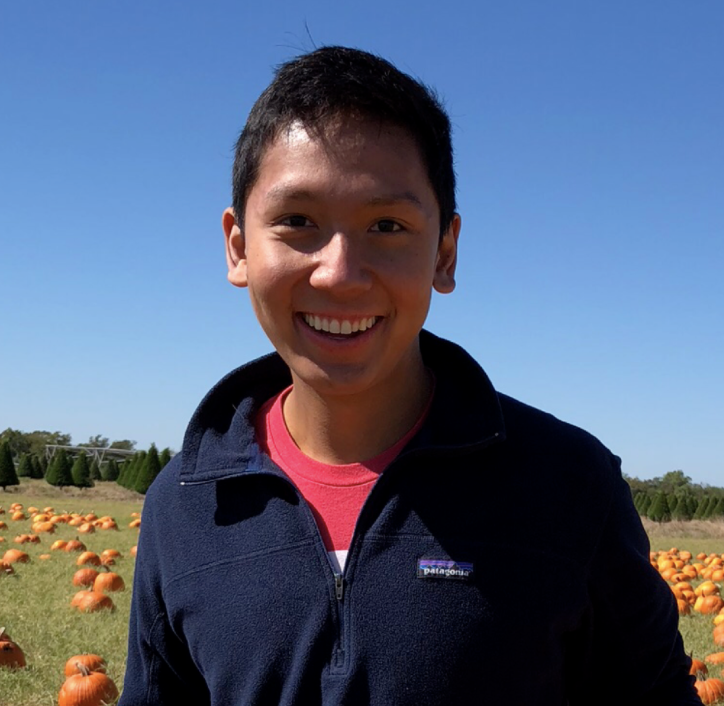
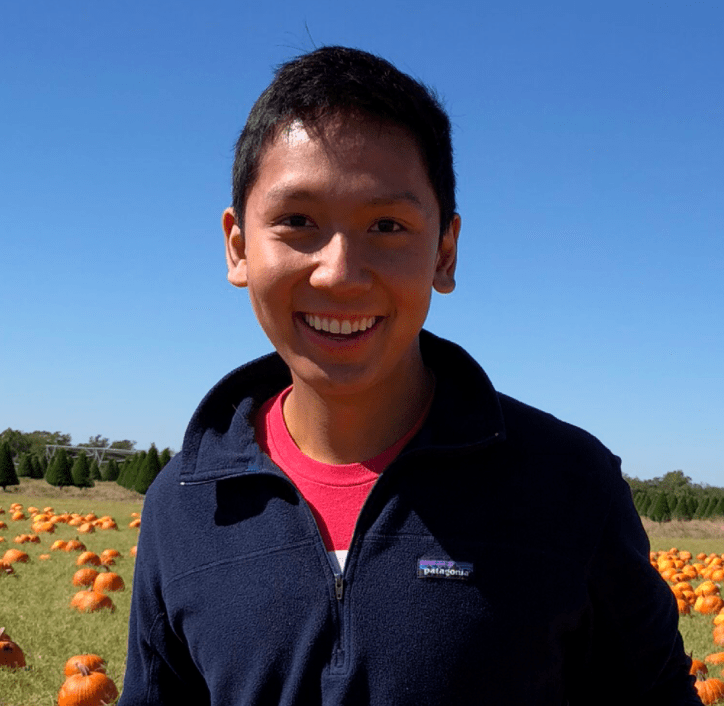
bug fixes and images resized

diff --git a/assets/sass/main.scss b/assets/sass/main.scss
@@ -1008,146 +1008,146 @@
 
 /* Poptrox */
 
-	@include keyframes('spin') {
-		0% { @include vendor('transform', 'rotate(0deg)'); }
-		100% { @include vendor('transform', 'rotate(360deg)'); }
-	};
-
-	.poptrox-popup {
-		@include vendor('box-sizing', 'content-box');
-		-webkit-tap-highlight-color: rgba(255,255,255,0);
-		background: #fff;
-		border-radius: _size(border-radius);
-		box-shadow: 0 0.1em 0.15em 0 rgba(0,0,0,0.15);
-		overflow: hidden;
-		padding-bottom: 3em;
-
-		.loader {
-			@include icon;
-			@include vendor('animation', 'spin 1s linear infinite');
-			font-size: 1.5em;
-			height: 1em;
-			left: 50%;
-			line-height: 1em;
-			margin: -0.5em 0 0 -0.5em;
-			position: absolute;
-			top: 50%;
-			width: 1em;
-
-			&:before {
-				content: '\f1ce';
-			}
-		}
-
-		.caption {
-			background: #fff;
-			bottom: 0;
-			cursor: default;
-			font-size: 0.9em;
-			height: 3em;
-			left: 0;
-			line-height: 2.8em;
-			position: absolute;
-			text-align: center;
-			width: 100%;
-			z-index: 1;
-		}
-
-		.nav-next,
-		.nav-previous {
-			@include icon;
-			@include vendor('transition', 'opacity #{_duration(transition)} ease-in-out');
-			-webkit-tap-highlight-color: rgba(255,255,255,0);
-			background: rgba(0,0,0,0.01);
-			cursor: pointer;
-			height: 100%;
-			opacity: 0;
-			position: absolute;
-			top: 0;
-			width: 50%;
-
-			&:before {
-				color: #fff;
-				font-size: 2.5em;
-				height: 1em;
-				line-height: 1em;
-				margin-top: -0.75em;
-				position: absolute;
-				text-align: center;
-				top: 50%;
-				width: 1.5em;
-			}
-		}
-
-		.nav-next {
-			right: 0;
-
-			&:before {
-				content: '\f105';
-				right: 0;
-			}
-		}
-
-		.nav-previous {
-			left: 0;
-
-			&:before {
-				content: '\f104';
-				left: 0;
-			}
-		}
-
-		.closer {
-			@include icon;
-			@include vendor('transition', 'opacity #{_duration(transition)} ease-in-out');
-			-webkit-tap-highlight-color: rgba(255,255,255,0);
-			color: #fff;
-			height: 4em;
-			line-height: 4em;
-			opacity: 0;
-			position: absolute;
-			right: 0;
-			text-align: center;
-			top: 0;
-			width: 4em;
-			z-index: 2;
-
-			&:before {
-				@include vendor('box-sizing', 'content-box');
-				border-radius: 100%;
-				border: solid 3px rgba(255,255,255,0.5);
-				content: '\f00d';
-				display: block;
-				font-size: 1em;
-				height: 1.75em;
-				left: 50%;
-				line-height: 1.75em;
-				margin: -0.875em 0 0 -0.875em;
-				position: absolute;
-				top: 50%;
-				width: 1.75em;
-			}
-		}
-
-		&:hover {
-			.nav-next,
-			.nav-previous {
-				opacity: 0.5;
-
-				&:hover {
-					opacity: 1.0;
-				}
-			}
-
-			.closer {
-				opacity: 0.5;
-
-				&:hover {
-					opacity: 1.0;
-				}
-			}
-		}
-	}
+	// @include keyframes('spin') {
+	// 	0% { @include vendor('transform', 'rotate(0deg)'); }
+	// 	100% { @include vendor('transform', 'rotate(360deg)'); }
+	// };
+	//
+	// .poptrox-popup {
+	// 	@include vendor('box-sizing', 'content-box');
+	// 	-webkit-tap-highlight-color: rgba(255,255,255,0);
+	// 	background: #fff;
+	// 	border-radius: _size(border-radius);
+	// 	box-shadow: 0 0.1em 0.15em 0 rgba(0,0,0,0.15);
+	// 	overflow: hidden;
+	// 	padding-bottom: 3em;
+	//
+	// 	.loader {
+	// 		@include icon;
+	// 		@include vendor('animation', 'spin 1s linear infinite');
+	// 		font-size: 1.5em;
+	// 		height: 1em;
+	// 		left: 50%;
+	// 		line-height: 1em;
+	// 		margin: -0.5em 0 0 -0.5em;
+	// 		position: absolute;
+	// 		top: 50%;
+	// 		width: 1em;
+	//
+	// 		&:before {
+	// 			content: '\f1ce';
+	// 		}
+	// 	}
+	//
+	// 	.caption {
+	// 		background: #fff;
+	// 		bottom: 0;
+	// 		cursor: default;
+	// 		font-size: 0.9em;
+	// 		height: 3em;
+	// 		left: 0;
+	// 		line-height: 2.8em;
+	// 		position: absolute;
+	// 		text-align: center;
+	// 		width: 100%;
+	// 		z-index: 1;
+	// 	}
+	//
+	// 	.nav-next,
+	// 	.nav-previous {
+	// 		@include icon;
+	// 		@include vendor('transition', 'opacity #{_duration(transition)} ease-in-out');
+	// 		-webkit-tap-highlight-color: rgba(255,255,255,0);
+	// 		background: rgba(0,0,0,0.01);
+	// 		cursor: pointer;
+	// 		height: 100%;
+	// 		opacity: 0;
+	// 		position: absolute;
+	// 		top: 0;
+	// 		width: 50%;
+	//
+	// 		&:before {
+	// 			color: #fff;
+	// 			font-size: 2.5em;
+	// 			height: 1em;
+	// 			line-height: 1em;
+	// 			margin-top: -0.75em;
+	// 			position: absolute;
+	// 			text-align: center;
+	// 			top: 50%;
+	// 			width: 1.5em;
+	// 		}
+	// 	}
+	//
+	// 	.nav-next {
+	// 		right: 0;
+	//
+	// 		&:before {
+	// 			content: '\f105';
+	// 			right: 0;
+	// 		}
+	// 	}
+	//
+	// 	.nav-previous {
+	// 		left: 0;
+	//
+	// 		&:before {
+	// 			content: '\f104';
+	// 			left: 0;
+	// 		}
+	// 	}
+	//
+	// 	.closer {
+	// 		@include icon;
+	// 		@include vendor('transition', 'opacity #{_duration(transition)} ease-in-out');
+	// 		-webkit-tap-highlight-color: rgba(255,255,255,0);
+	// 		color: #fff;
+	// 		height: 4em;
+	// 		line-height: 4em;
+	// 		opacity: 0;
+	// 		position: absolute;
+	// 		right: 0;
+	// 		text-align: center;
+	// 		top: 0;
+	// 		width: 4em;
+	// 		z-index: 2;
+	//
+	// 		&:before {
+	// 			@include vendor('box-sizing', 'content-box');
+	// 			border-radius: 100%;
+	// 			border: solid 3px rgba(255,255,255,0.5);
+	// 			content: '\f00d';
+	// 			display: block;
+	// 			font-size: 1em;
+	// 			height: 1.75em;
+	// 			left: 50%;
+	// 			line-height: 1.75em;
+	// 			margin: -0.875em 0 0 -0.875em;
+	// 			position: absolute;
+	// 			top: 50%;
+	// 			width: 1.75em;
+	// 		}
+	// 	}
+	//
+	// 	&:hover {
+	// 		.nav-next,
+	// 		.nav-previous {
+	// 			opacity: 0.5;
+	//
+	// 			&:hover {
+	// 				opacity: 1.0;
+	// 			}
+	// 		}
+	//
+	// 		.closer {
+	// 			opacity: 0.5;
+	//
+	// 			&:hover {
+	// 				opacity: 1.0;
+	// 			}
+	// 		}
+	// 	}
+	// }
 
 /* Touch */
 

diff --git a/index.html b/index.html
@@ -49,19 +49,19 @@
 								<li><i style = "font-size:50px" class ="devicons devicons-git"></i><h3 class= "iconHeadings">Git</h3></li>
 								<li><i style = "font-size:50px" class ="devicons devicons-python"></i><h3 class= "iconHeadings">Python</h3></li>
 								<li><i style = "font-size:50px" class ="devicons devicons-postgresql"></i><h3 class= "iconHeadings">PostgreSQL</h3></li>
-								<li><i style = "font-size:50px" class ="devicons devicons-javascript_badge"></i><h3 class= "iconHeadings">ExpressJS</h3></li>
+								<li><i style = "font-size:50px" class ="devicons devicons-javascript_badge"></i><h3 class= "iconHeadings">Express.js</h3></li>
 								<li><i style = "font-size:50px" class ="devicons devicons-jquery"></i><h3 class= "iconHeadings">jQuery</h3></li>
-								<li><i style = "font-size:50px" class ="devicons devicons-nodejs_small"></i><h3 class= "iconHeadings">NodeJS</h3></li>
+								<li><i style = "font-size:50px" class ="devicons devicons-nodejs_small"></i><h3 class= "iconHeadings">Node.js</h3></li>
 								<li><i style = "font-size:50px" class ="devicons devicons-html5"></i><h3 class= "iconHeadings">HTML5</h3></li>
 								<li><i style = "font-size:50px" class ="devicons devicons-css3_full"></i><h3 class= "iconHeadings">CSS3</h3></li>
 								<li><i style = "font-size:50px" class ="devicons devicons-bootstrap"></i><h3 class= "iconHeadings">Bootstrap</h3></li>
 								<li><i style = "font-size:50px" class ="devicons devicons-npm"></i><h3 class= "iconHeadings">NPM</h3></li>
 								<li><i style = "font-size:50px" class ="devicons devicons-atom"></i><h3 class= "iconHeadings">Atom</h3></li>
-								<li><i style = "font-size:50px" class ="devicons devicons-react"></i><h3 class= "iconHeadings">ReactJS</h3></li>
+								<li><i style = "font-size:50px" class ="devicons devicons-react"></i><h3 class= "iconHeadings">React.js</h3></li>
 								<li><i style = "font-size:50px" class ="devicons devicons-heroku"></i><h3 class= "iconHeadings">Heroku</h3></li>
 								<li><i style = "font-size:50px" class ="devicons devicons-photoshop"></i><h3 class= "iconHeadings">Photoshop</h3></li>
 								<li><i style = "font-size:50px" class ="devicons devicons-firebase"></i><h3 class= "iconHeadings">Firebase</h3></li>
-								<li><i style = "font-size:50px" class ="devicons devicons-javascript"></i><h3 class= "iconHeadings">Javascript</h3></li>
+								<li><i style = "font-size:50px" class ="devicons devicons-javascript"></i><h3 class= "iconHeadings">JavaScript</h3></li>
 							</ul>
 						<ul class="actions">
 							<li><a href="Resume.pdf" class="button">View My Resume</a></li>

diff --git a/assets/js/main.js b/assets/js/main.js
@@ -112,23 +112,23 @@
 		// Main Sections: Two.
 
 			// Lightbox gallery.
-				$window.on('load', function() {
-
-					$('#two').poptrox({
-						caption: function($a) { return $a.next('h3').text(); },
-						overlayColor: '#2c2c2c',
-						overlayOpacity: 0.85,
-						popupCloserText: '',
-						popupLoaderText: '',
-						selector: '.work-item a.image',
-						usePopupCaption: true,
-						usePopupDefaultStyling: false,
-						usePopupEasyClose: false,
-						usePopupNav: true,
-						windowMargin: (skel.breakpoint('small').active ? 0 : 50)
-					});
-
-				});
+				// $window.on('load', function() {
+				//
+				// 	$('#two').poptrox({
+				// 		caption: function($a) { return $a.next('h3').text(); },
+				// 		overlayColor: '#2c2c2c',
+				// 		overlayOpacity: 0.85,
+				// 		popupCloserText: '',
+				// 		popupLoaderText: '',
+				// 		selector: '.work-item a.image',
+				// 		usePopupCaption: true,
+				// 		usePopupDefaultStyling: false,
+				// 		usePopupEasyClose: false,
+				// 		usePopupNav: true,
+				// 		windowMargin: (skel.breakpoint('small').active ? 0 : 50)
+				// 	});
+				//
+				// });
 
 	});
 
